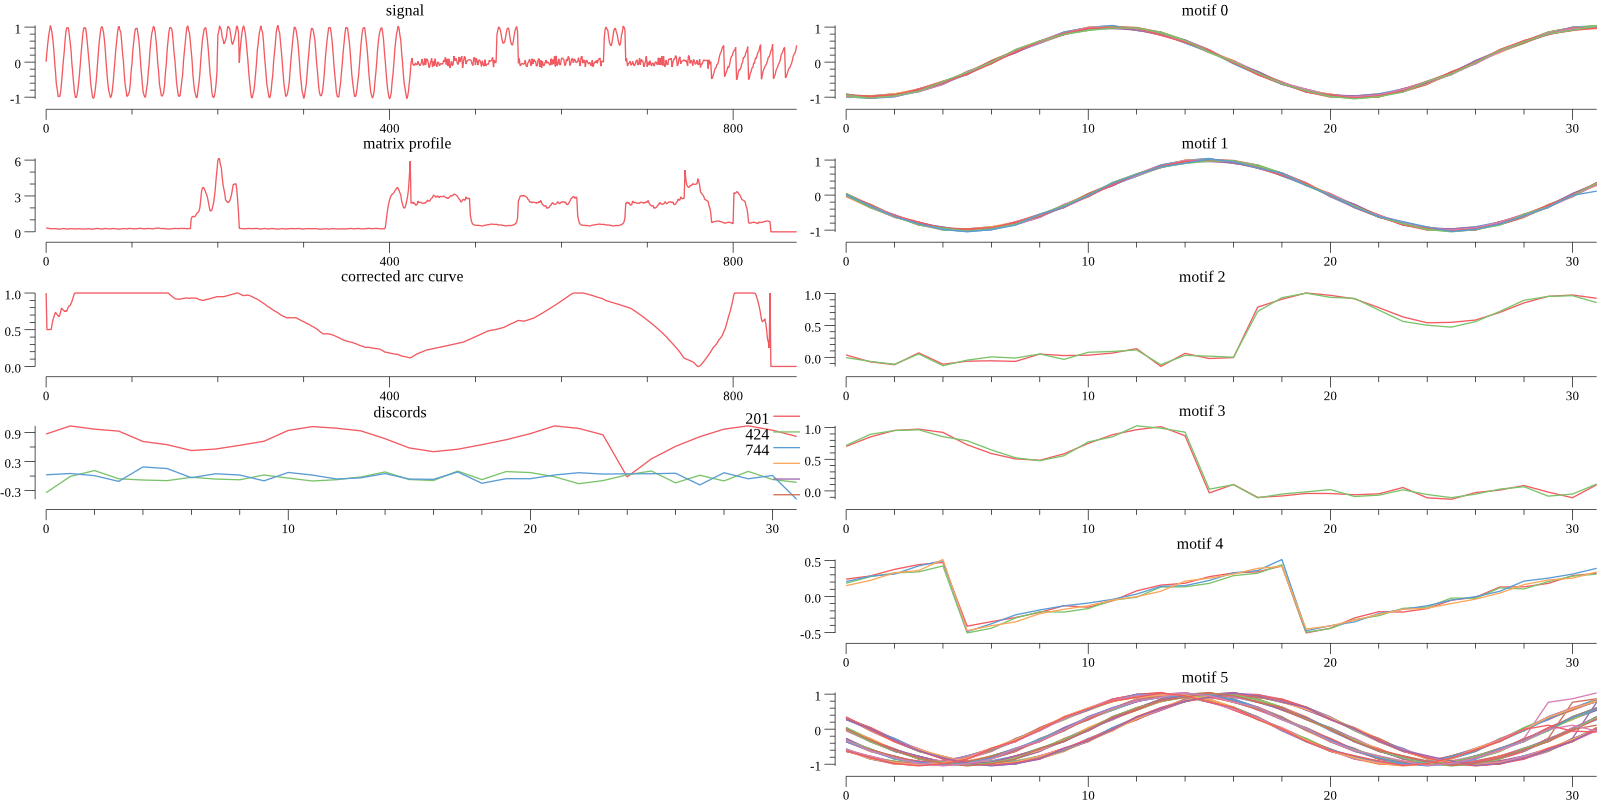
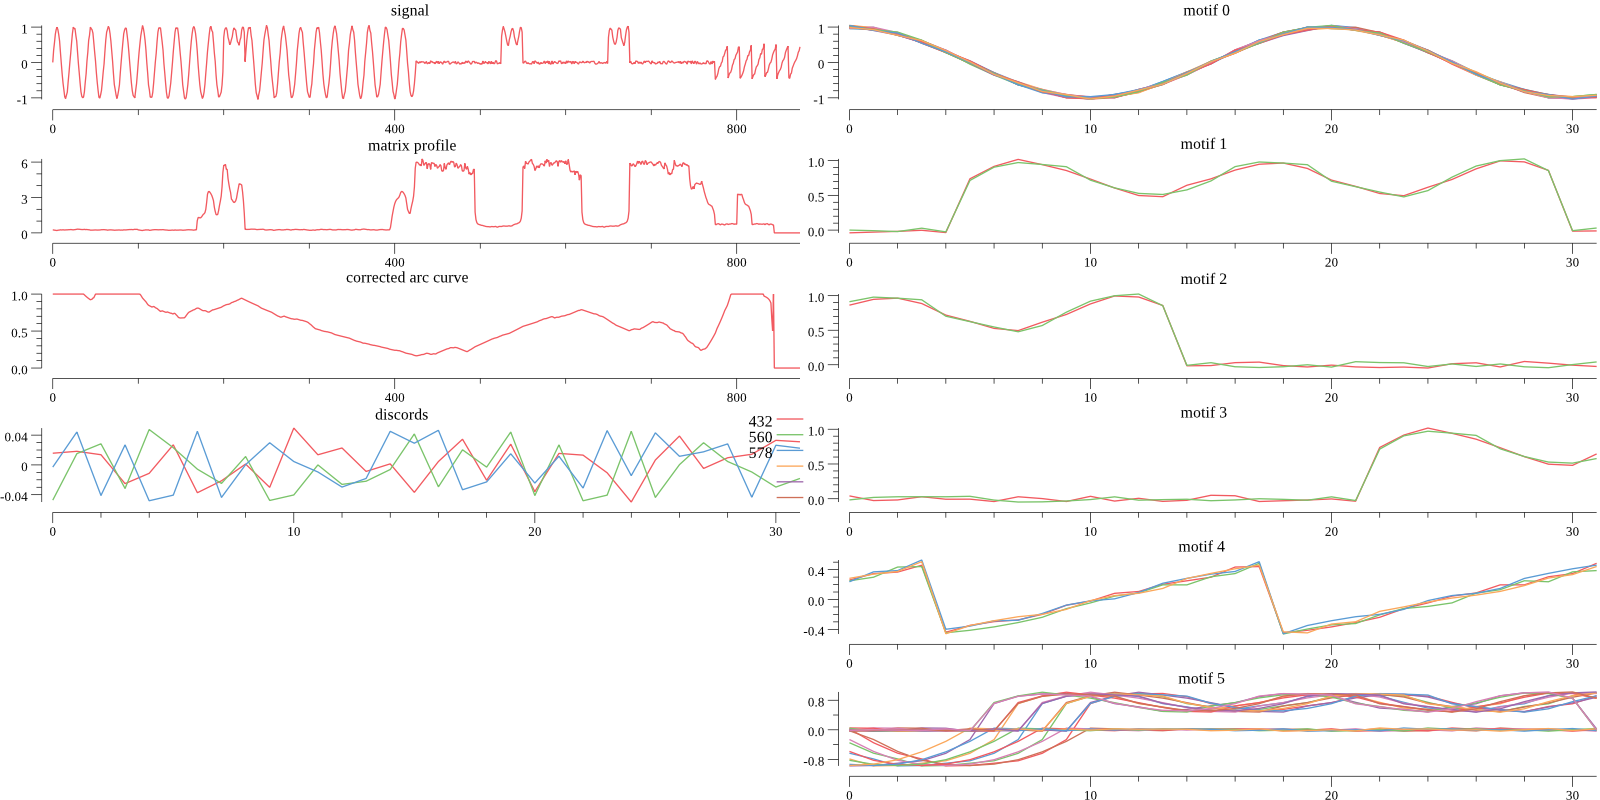
added initial build out of KMatrixProfile and added the complex estimation annotation vector

diff --git a/matrixprofile/util.go b/matrixprofile/util.go
@@ -2,8 +2,9 @@ package matrixprofile
 
 import (
 	"fmt"
-	"gonum.org/v1/gonum/stat"
 	"math"
+
+	"gonum.org/v1/gonum/stat"
 )
 
 // zNormalize computes a z-normalized version of a slice of floats.
@@ -123,4 +124,35 @@ func arcCurve(mpIdx []int) []float64 {
 // -(sqrt(2/n)*(x-n/2))^2 + n/2 = y
 func iac(x float64, n int) float64 {
 	return -math.Pow(math.Sqrt(2/float64(n))*(x-float64(n)/2.0), 2.0) + float64(n)/2.0
+}
+
+// MakeCompEstAV creates an annotation vector that is based on the complexity estimation
+// of the signal.
+func MakeCompEstAV(d []float64, m int) []float64 {
+	av := make([]float64, len(d)-m+1)
+	var ce, minAV, maxAV float64
+	minAV = math.Inf(1)
+	maxAV = math.Inf(-1)
+	for i := 0; i < len(d)-m+1; i++ {
+		ce = 0.0
+		for j := 1; j < m; j++ {
+			ce += (d[i+j] - d[i+j-1]) * (d[i+j] - d[i+j-1])
+		}
+		av[i] = math.Sqrt(ce)
+		if av[i] < minAV {
+			minAV = av[i]
+		}
+		if av[i] > maxAV {
+			maxAV = av[i]
+		}
+	}
+	for i := 0; i < len(d)-m+1; i++ {
+		if maxAV == 0 {
+			av[i] = 0
+		} else {
+			av[i] = (av[i] - minAV) / maxAV
+		}
+	}
+
+	return av
 }

diff --git a/matrixprofile/util_test.go b/matrixprofile/util_test.go
@@ -188,3 +188,31 @@ func TestSegment(t *testing.T) {
 		}
 	}
 }
+
+func TestMakeCompEstAV(t *testing.T) {
+	testdata := []struct {
+		d        []float64
+		m        int
+		expected []float64
+	}{
+		{[]float64{3, 3, 3, 3, 3, 3}, 3, []float64{0, 0, 0, 0}},
+		{[]float64{0, 1, 2, 3, 4, 5}, 3, []float64{0, 0, 0, 0}},
+		{[]float64{0, 3, 0, 2, 0, 1}, 3, []float64{0.47295372330527, 0.32279030890406757, 0.13962038997193682, 0}},
+	}
+	//sqrt18 sqrt13 sqrt8 sqrt5
+	//sqrt18-sqrt5/sqrt18
+	for _, d := range testdata {
+		out := MakeCompEstAV(d.d, d.m)
+
+		if len(out) != len(d.expected) {
+			t.Errorf("Expected length %d, but got %d for %v", len(d.expected), len(out), d)
+			break
+		}
+
+		for i, val := range out {
+			if math.Abs(val-d.expected[i]) > 1e-7 {
+				t.Errorf("Expected value of %.3f, but got %.3f for %v", d.expected[i], val, d)
+			}
+		}
+	}
+}

diff --git a/matrixprofile/example_caseStudy_test.go b/matrixprofile/example_caseStudy_test.go
@@ -122,10 +122,10 @@ func Example_caseStudy() {
 	sin := siggen.Sin(1, 5, 0, 0, 100, 2)
 	sin2 := siggen.Sin(0.25, 10, 0, 0.75, 100, 0.25)
 	saw := siggen.Sawtooth(0.5, 7, 0, 0, 100, 1)
-	noise := siggen.Noise(0.3, len(sin2)*4)
-	sig := siggen.Append(sin, sin2, sin, noise, sin2, noise, sin2, noise, saw)
+	line := siggen.Line(0, 0, len(sin2)*4)
+	sig := siggen.Append(sin, sin2, sin, line, sin2, line, sin2, line, saw)
 
-	noise = siggen.Noise(0.1, len(sig))
+	noise := siggen.Noise(0.1, len(sig))
 	sig = siggen.Add(sig, noise)
 
 	var m, k int

diff --git a/README.md b/README.md
@@ -73,8 +73,8 @@ subsequence length: 32
 * signal: This shows our raw data. Theres several oddities and patterns that can be seen here. 
 * matrix profile: generated by running STOMP on this signal which generates both the matrix profile and the matrix profile index. In the matrix profile we see several spikes which indicate that these may be time series discords or anomalies in the time series.
 * corrected arc curve: This shows the segmentation of the time series. The two lowest dips around index 420 and 760 indicate potential state changes in the time series. At 420 we see the sinusoidal wave move into a more pulsed pattern. At 760 we see the pulsed pattern move into a sawtooth pattern.
-* discords: The discords graph shows the top 3 potential discords of the defined subsequence length, m, based on the 3 highest peaks in the matrix profile.
-* motifs: These represent the top 6 motifs found from the time series. The first two being the initial sine wave pattern but slightly shifted due to noise. The third is during the pulsed sequence on a rise from the noise to the pulse. The fourth is during the pulsed sequence on a fall of the pulse to noise. The fifth is the sawtooth pattern. 
+* discords: The discords graph shows the top 3 potential discords of the defined subsequence length, m, based on the 3 highest peaks in the matrix profile. This is mostly composed of noise.
+* motifs: These represent the top 6 motifs found from the time series. The first being the initial sine wave pattern. The second is the sinusoidal pulse. The third is during the pulsed sequence on a fall of the pulse to the noise. The fourth is during the pulsed sequence on the rise from the noise to the pulse. The fifth is the sawtooth pattern. 
 
 The code to generate the graph can be found in [this example](https://github.com/aouyang1/go-matrixprofile/blob/master/matrixprofile/example_caseStudy_test.go#L121). The plot can be generated by running
 ```sh
